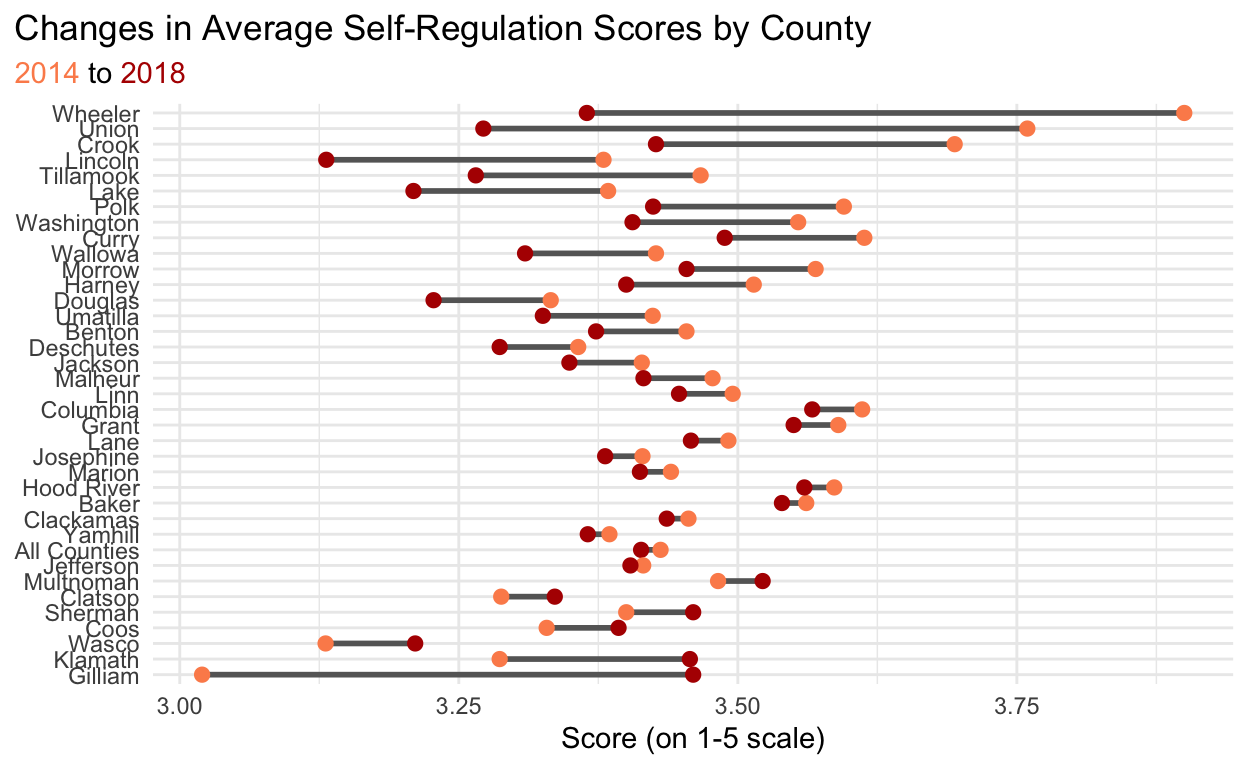
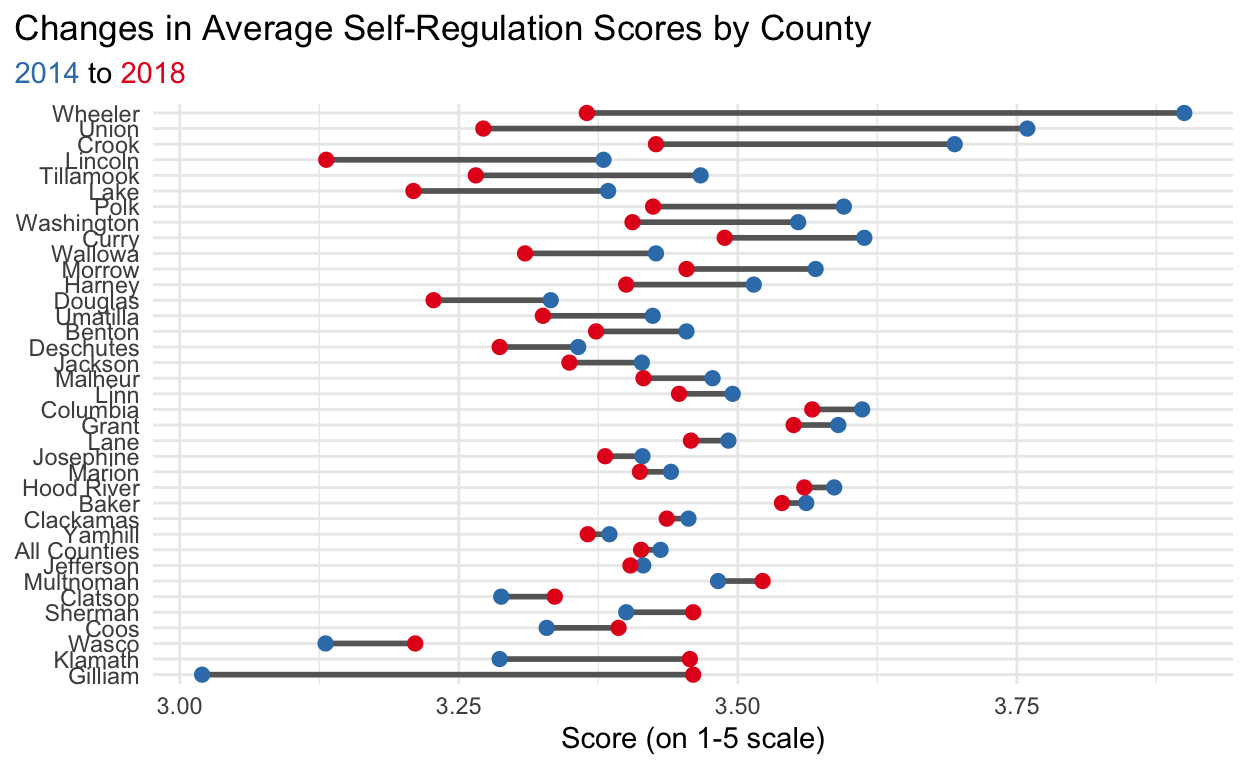
viz3 refining

diff --git a/docs/posts/viz3/index.html b/docs/posts/viz3/index.html
@@ -35,9 +35,9 @@
 <meta property="og:type" content="article"/>
 <meta property="og:description" content="Plotting change in self-regulation scores from 2014 to 2018"/>
 <meta property="og:url" content="https://github.com/jhwrigh23/class_website/posts/viz3/"/>
-<meta property="og:image" content="https://github.com/jhwrigh23/class_website/posts/viz3/viz3_files/figure-html5/unnamed-chunk-5-1.png"/>
-<meta property="og:image:width" content="1248"/>
-<meta property="og:image:height" content="768"/>
+<meta property="og:image" content="https://github.com/jhwrigh23/class_website/posts/viz3/viz3_files/figure-html5/unnamed-chunk-6-1.png"/>
+<meta property="og:image:width" content="960"/>
+<meta property="og:image:height" content="960"/>
 <meta property="og:locale" content="en_US"/>
 <meta property="og:site_name" content="Data Visualization Winter 2020"/>
 
@@ -46,9 +46,9 @@
 <meta property="twitter:title" content="Data Visualization Winter 2020: Visualization #3"/>
 <meta property="twitter:description" content="Plotting change in self-regulation scores from 2014 to 2018"/>
 <meta property="twitter:url" content="https://github.com/jhwrigh23/class_website/posts/viz3/"/>
-<meta property="twitter:image" content="https://github.com/jhwrigh23/class_website/posts/viz3/viz3_files/figure-html5/unnamed-chunk-5-1.png"/>
-<meta property="twitter:image:width" content="1248"/>
-<meta property="twitter:image:height" content="768"/>
+<meta property="twitter:image" content="https://github.com/jhwrigh23/class_website/posts/viz3/viz3_files/figure-html5/unnamed-chunk-6-1.png"/>
+<meta property="twitter:image:width" content="960"/>
+<meta property="twitter:image:height" content="960"/>
 
 <!--  https://scholar.google.com/intl/en/scholar/inclusion.html#indexing -->
 <meta name="citation_title" content="Data Visualization Winter 2020: Visualization #3"/>
@@ -65,7 +65,7 @@
 <!--/radix_placeholder_rmarkdown_metadata-->
   
   <script type="text/json" id="radix-resource-manifest">
-  {"type":"character","attributes":{},"value":["viz3_files/bowser-1.9.3/bowser.min.js","viz3_files/distill-2.2.21/template.v2.js","viz3_files/figure-html5/unnamed-chunk-1-1.png","viz3_files/figure-html5/unnamed-chunk-2-1.png","viz3_files/figure-html5/unnamed-chunk-3-1.png","viz3_files/figure-html5/unnamed-chunk-4-1.png","viz3_files/figure-html5/unnamed-chunk-5-1.png","viz3_files/figure-html5/viz3-1.png","viz3_files/figure-html5/viz3-vers1-1.png","viz3_files/figure-html5/viz3-vers2-1.png","viz3_files/figure-html5/viz3-vers4-1.png","viz3_files/jquery-1.11.3/jquery.min.js","viz3_files/webcomponents-2.0.0/webcomponents.js"]}
+  {"type":"character","attributes":{},"value":["viz3_files/bowser-1.9.3/bowser.min.js","viz3_files/distill-2.2.21/template.v2.js","viz3_files/figure-html5/unnamed-chunk-1-1.png","viz3_files/figure-html5/unnamed-chunk-2-1.png","viz3_files/figure-html5/unnamed-chunk-3-1.png","viz3_files/figure-html5/unnamed-chunk-4-1.png","viz3_files/figure-html5/unnamed-chunk-5-1.png","viz3_files/figure-html5/unnamed-chunk-6-1.png","viz3_files/figure-html5/viz3-1.png","viz3_files/figure-html5/viz3-vers1-1.png","viz3_files/figure-html5/viz3-vers2-1.png","viz3_files/figure-html5/viz3-vers4-1.png","viz3_files/jquery-1.11.3/jquery.min.js","viz3_files/webcomponents-2.0.0/webcomponents.js"]}
   </script>
   <!--radix_placeholder_navigation_in_header-->
 
@@ -1350,6 +1350,7 @@ library(ggtext)</code></pre>
 </div>
 <p>The purpose of Plot 3 is to see how self-regulation scores have changed over the course of the OKA. I chose to compare the recent data (2018-2019) with data from the first wave of the OKA (2014-2015).</p>
 <p>To do so, I first needed to load the 2014-2015 data. I cleaned it in the same way I cleaned my initial (2018-2019) data. Then I joined the two waves. Once the data were joined, I used <code>pivot_longer</code> to create columns for each year so that I could compare across years.</p>
+<p>Then I was ready to try plotting:</p>
 <div class="layout-chunk" data-layout="l-body">
 
 </div>
@@ -1359,7 +1360,6 @@ library(ggtext)</code></pre>
 <div class="layout-chunk" data-layout="l-body">
 
 </div>
-Here’s the initial plot:
 <div class="layout-chunk" data-layout="l-body">
 <p><img src="viz3_files/figure-html5/unnamed-chunk-1-1.png" width="624" /></p>
 </div>
@@ -1375,9 +1375,13 @@ Here’s the initial plot:
 <div class="layout-chunk" data-layout="l-body">
 <p><img src="viz3_files/figure-html5/unnamed-chunk-4-1.png" width="624" /></p>
 </div>
-<p>Although this works, I finally, I wanted to highlight the counties which saw <strong>increases</strong> in scores vs. the counties that saw <strong>decreases</strong> in scores. This is the main point of the plot and should be immediately evident to the viewer.</p>
+<p>I also made the scale colors display in the subtitle rather than in a legend.</p>
 <div class="layout-chunk" data-layout="l-body">
-<p><img src="viz3_files/figure-html5/unnamed-chunk-5-1.png" width="624" data-distill-preview=1 /></p>
+<p><img src="viz3_files/figure-html5/unnamed-chunk-5-1.png" width="624" /></p>
+</div>
+<p>Although this works, I wanted to highlight the counties which saw <strong>increases</strong> in scores vs. the counties that saw <strong>decreases</strong> in scores. This is the main point of the plot and should be immediately evident to the viewer. To do this, I added another <code>geom_line</code> for only those counties that saw decreases. I also reversed the <code>fct_reorder</code> so that counties with increases were at the top and counties with decreases were at the bottom.</p>
+<div class="layout-chunk" data-layout="l-body-outset">
+<p><img src="viz3_files/figure-html5/unnamed-chunk-6-1.png" width="480" data-distill-preview=1 /></p>
 </div>
 <!--radix_placeholder_article_footer-->
 <!--/radix_placeholder_article_footer-->

diff --git a/_posts/viz3/viz3.html b/_posts/viz3/viz3.html
@@ -49,7 +49,7 @@
   <!--/radix_placeholder_rmarkdown_metadata-->
   
   <script type="text/json" id="radix-resource-manifest">
-  {"type":"character","attributes":{},"value":["viz3_files/bowser-1.9.3/bowser.min.js","viz3_files/distill-2.2.21/template.v2.js","viz3_files/figure-html5/unnamed-chunk-1-1.png","viz3_files/figure-html5/unnamed-chunk-2-1.png","viz3_files/figure-html5/unnamed-chunk-3-1.png","viz3_files/figure-html5/unnamed-chunk-4-1.png","viz3_files/figure-html5/unnamed-chunk-5-1.png","viz3_files/figure-html5/viz3-1.png","viz3_files/figure-html5/viz3-vers1-1.png","viz3_files/figure-html5/viz3-vers2-1.png","viz3_files/figure-html5/viz3-vers4-1.png","viz3_files/jquery-1.11.3/jquery.min.js","viz3_files/webcomponents-2.0.0/webcomponents.js"]}
+  {"type":"character","attributes":{},"value":["viz3_files/bowser-1.9.3/bowser.min.js","viz3_files/distill-2.2.21/template.v2.js","viz3_files/figure-html5/unnamed-chunk-1-1.png","viz3_files/figure-html5/unnamed-chunk-2-1.png","viz3_files/figure-html5/unnamed-chunk-3-1.png","viz3_files/figure-html5/unnamed-chunk-4-1.png","viz3_files/figure-html5/unnamed-chunk-5-1.png","viz3_files/figure-html5/unnamed-chunk-6-1.png","viz3_files/figure-html5/viz3-1.png","viz3_files/figure-html5/viz3-vers1-1.png","viz3_files/figure-html5/viz3-vers2-1.png","viz3_files/figure-html5/viz3-vers4-1.png","viz3_files/jquery-1.11.3/jquery.min.js","viz3_files/webcomponents-2.0.0/webcomponents.js"]}
   </script>
   <!--radix_placeholder_navigation_in_header-->
   <!--/radix_placeholder_navigation_in_header-->
@@ -982,6 +982,7 @@ library(ggtext)</code></pre>
 </div>
 <p>The purpose of Plot 3 is to see how self-regulation scores have changed over the course of the OKA. I chose to compare the recent data (2018-2019) with data from the first wave of the OKA (2014-2015).</p>
 <p>To do so, I first needed to load the 2014-2015 data. I cleaned it in the same way I cleaned my initial (2018-2019) data. Then I joined the two waves. Once the data were joined, I used <code>pivot_longer</code> to create columns for each year so that I could compare across years.</p>
+<p>Then I was ready to try plotting:</p>
 <div class="layout-chunk" data-layout="l-body">
 
 </div>
@@ -991,7 +992,6 @@ library(ggtext)</code></pre>
 <div class="layout-chunk" data-layout="l-body">
 
 </div>
-Here’s the initial plot:
 <div class="layout-chunk" data-layout="l-body">
 <p><img src="viz3_files/figure-html5/unnamed-chunk-1-1.png" width="624" /></p>
 </div>
@@ -1007,9 +1007,13 @@ Here’s the initial plot:
 <div class="layout-chunk" data-layout="l-body">
 <p><img src="viz3_files/figure-html5/unnamed-chunk-4-1.png" width="624" /></p>
 </div>
-<p>Although this works, I finally, I wanted to highlight the counties which saw <strong>increases</strong> in scores vs. the counties that saw <strong>decreases</strong> in scores. This is the main point of the plot and should be immediately evident to the viewer.</p>
+<p>I also made the scale colors display in the subtitle rather than in a legend.</p>
 <div class="layout-chunk" data-layout="l-body">
-<p><img src="viz3_files/figure-html5/unnamed-chunk-5-1.png" width="624" data-distill-preview=1 /></p>
+<p><img src="viz3_files/figure-html5/unnamed-chunk-5-1.png" width="624" /></p>
+</div>
+<p>Although this works, I wanted to highlight the counties which saw <strong>increases</strong> in scores vs. the counties that saw <strong>decreases</strong> in scores. This is the main point of the plot and should be immediately evident to the viewer. To do this, I added another <code>geom_line</code> for only those counties that saw decreases. I also reversed the <code>fct_reorder</code> so that counties with increases were at the top and counties with decreases were at the bottom.</p>
+<div class="layout-chunk" data-layout="l-body-outset">
+<p><img src="viz3_files/figure-html5/unnamed-chunk-6-1.png" width="480" data-distill-preview=1 /></p>
 </div>
 <!--radix_placeholder_article_footer-->
 <!--/radix_placeholder_article_footer-->

diff --git a/docs/index.html b/docs/index.html
@@ -1645,7 +1645,7 @@ function init_posts_list() {
 <div class="publishedDate">March 9, 2020</div>
 </div>
 <div class="thumbnail">
-<img data-src="posts/viz3/viz3_files/figure-html5/unnamed-chunk-5-1.png"/>
+<img data-src="posts/viz3/viz3_files/figure-html5/unnamed-chunk-6-1.png"/>
 </div>
 <div class="description">
 <h2>Visualization #3</h2>
